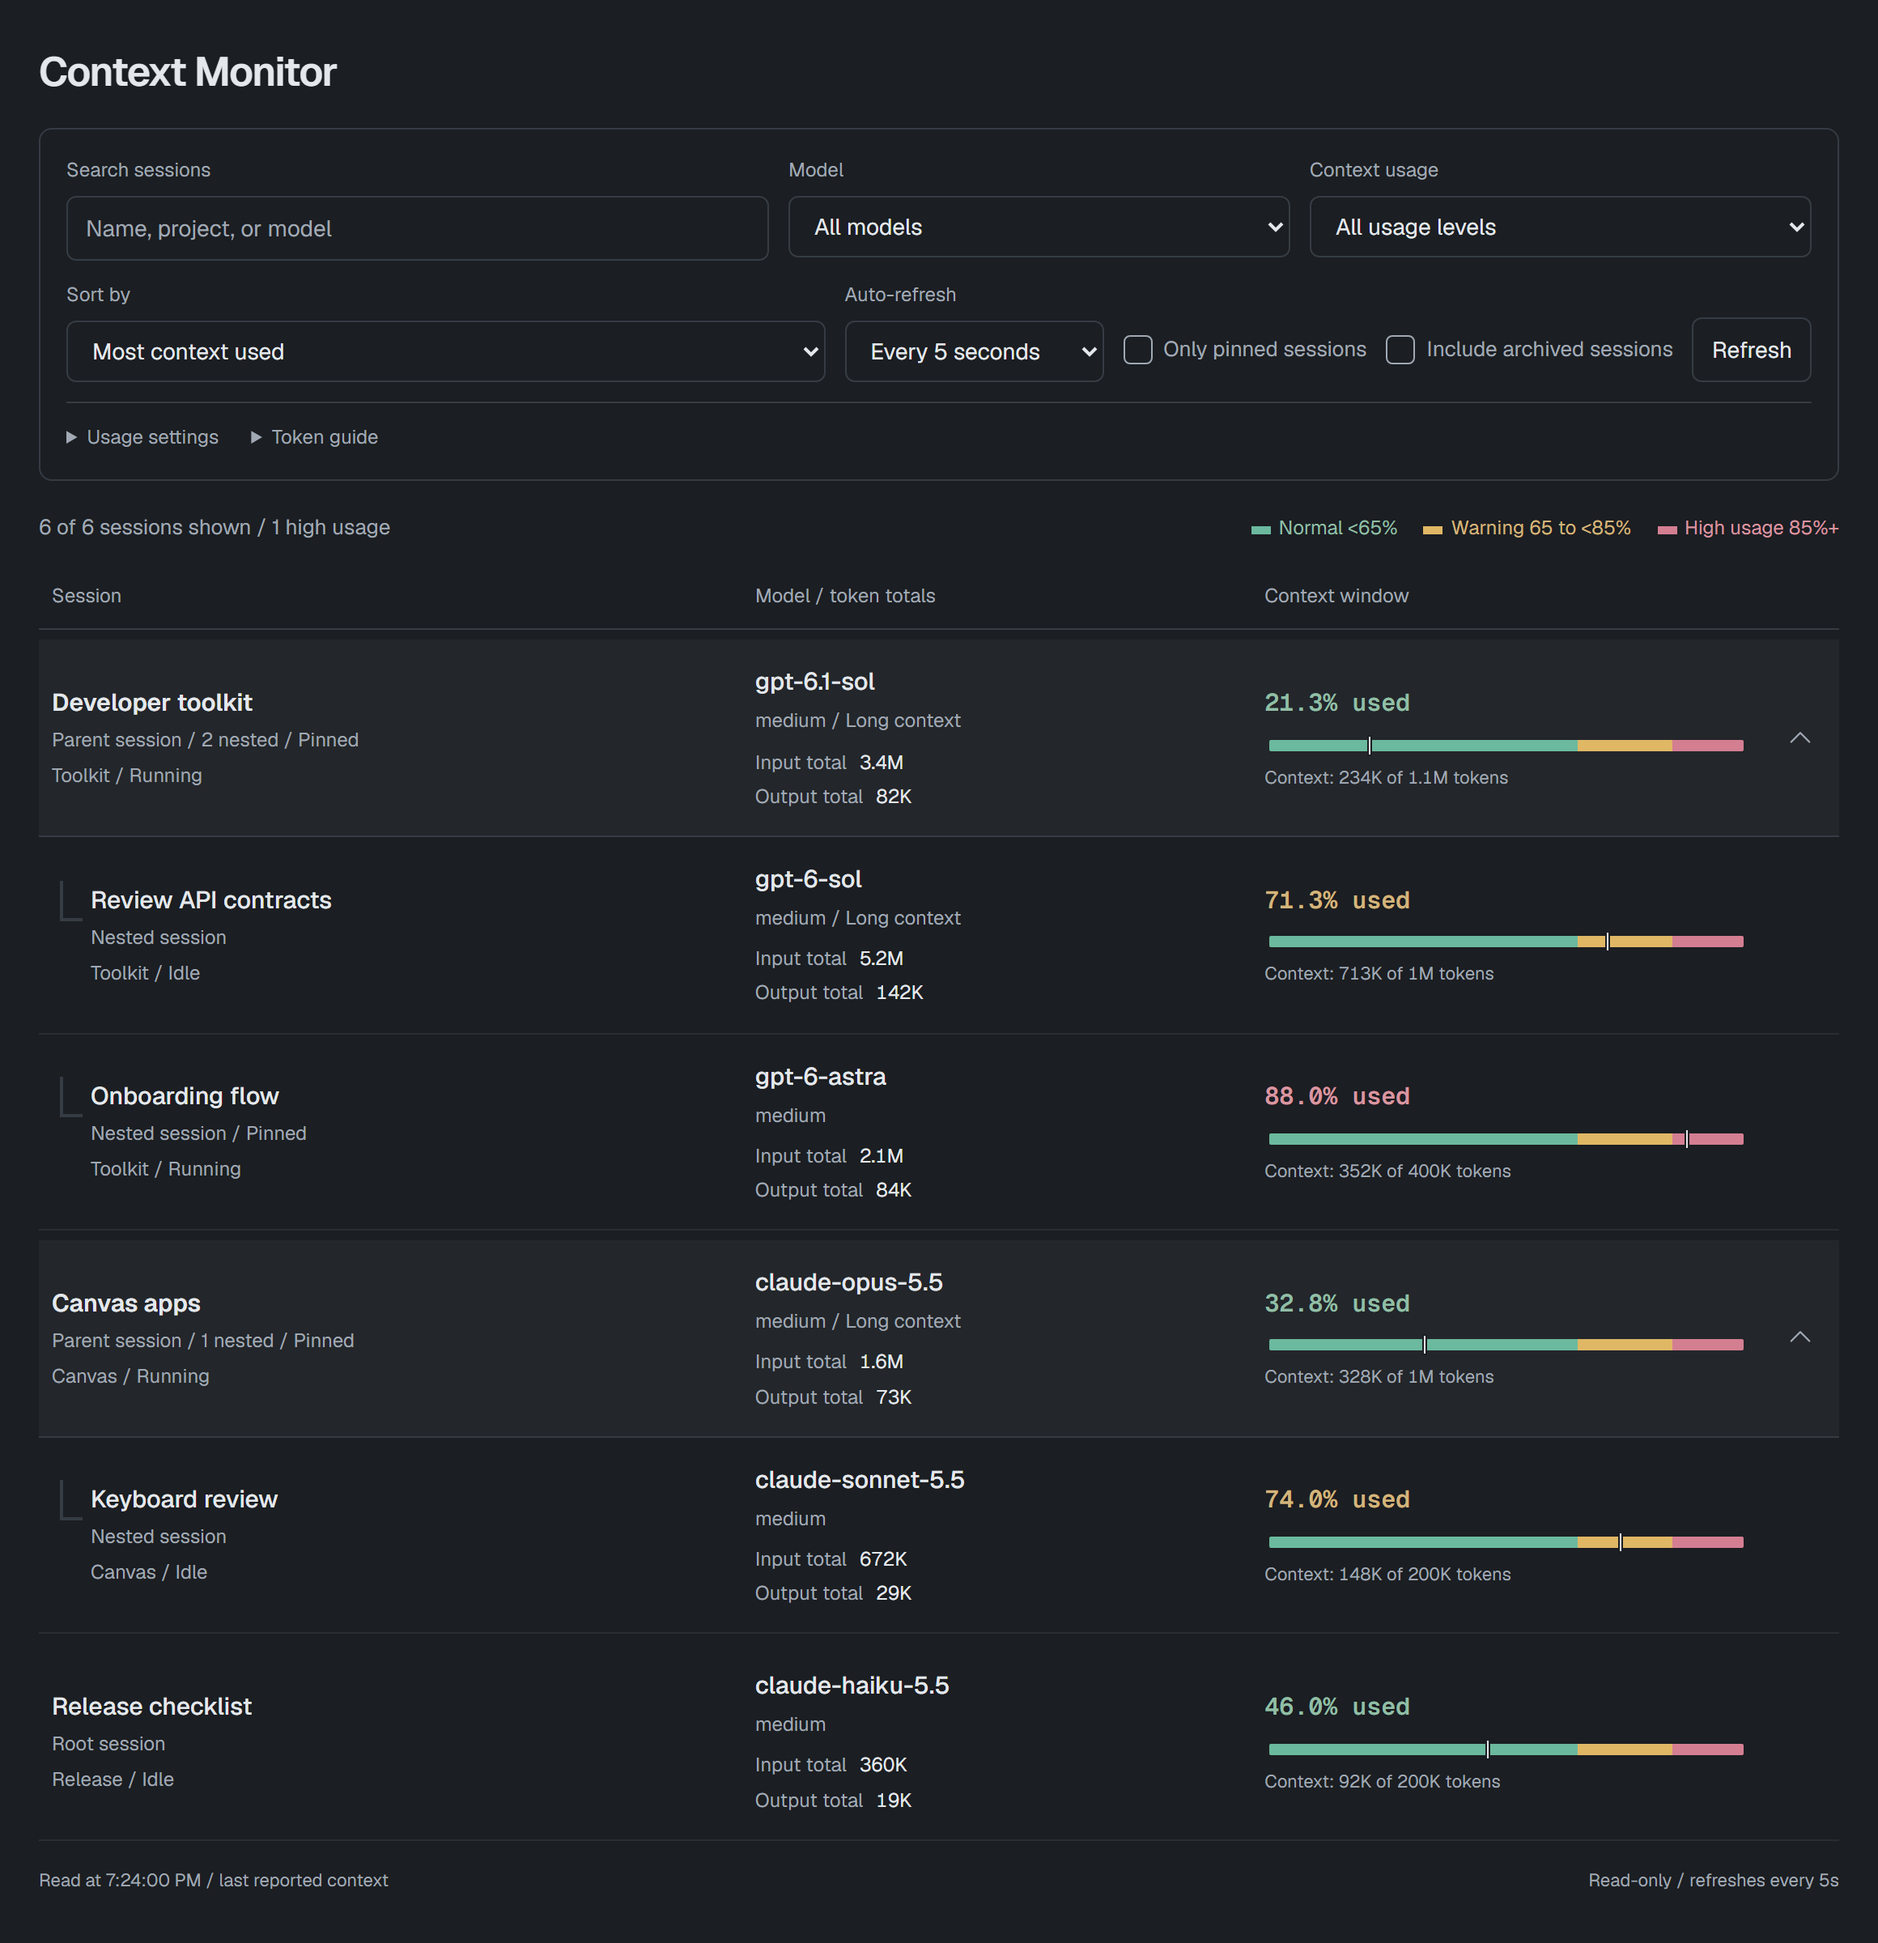
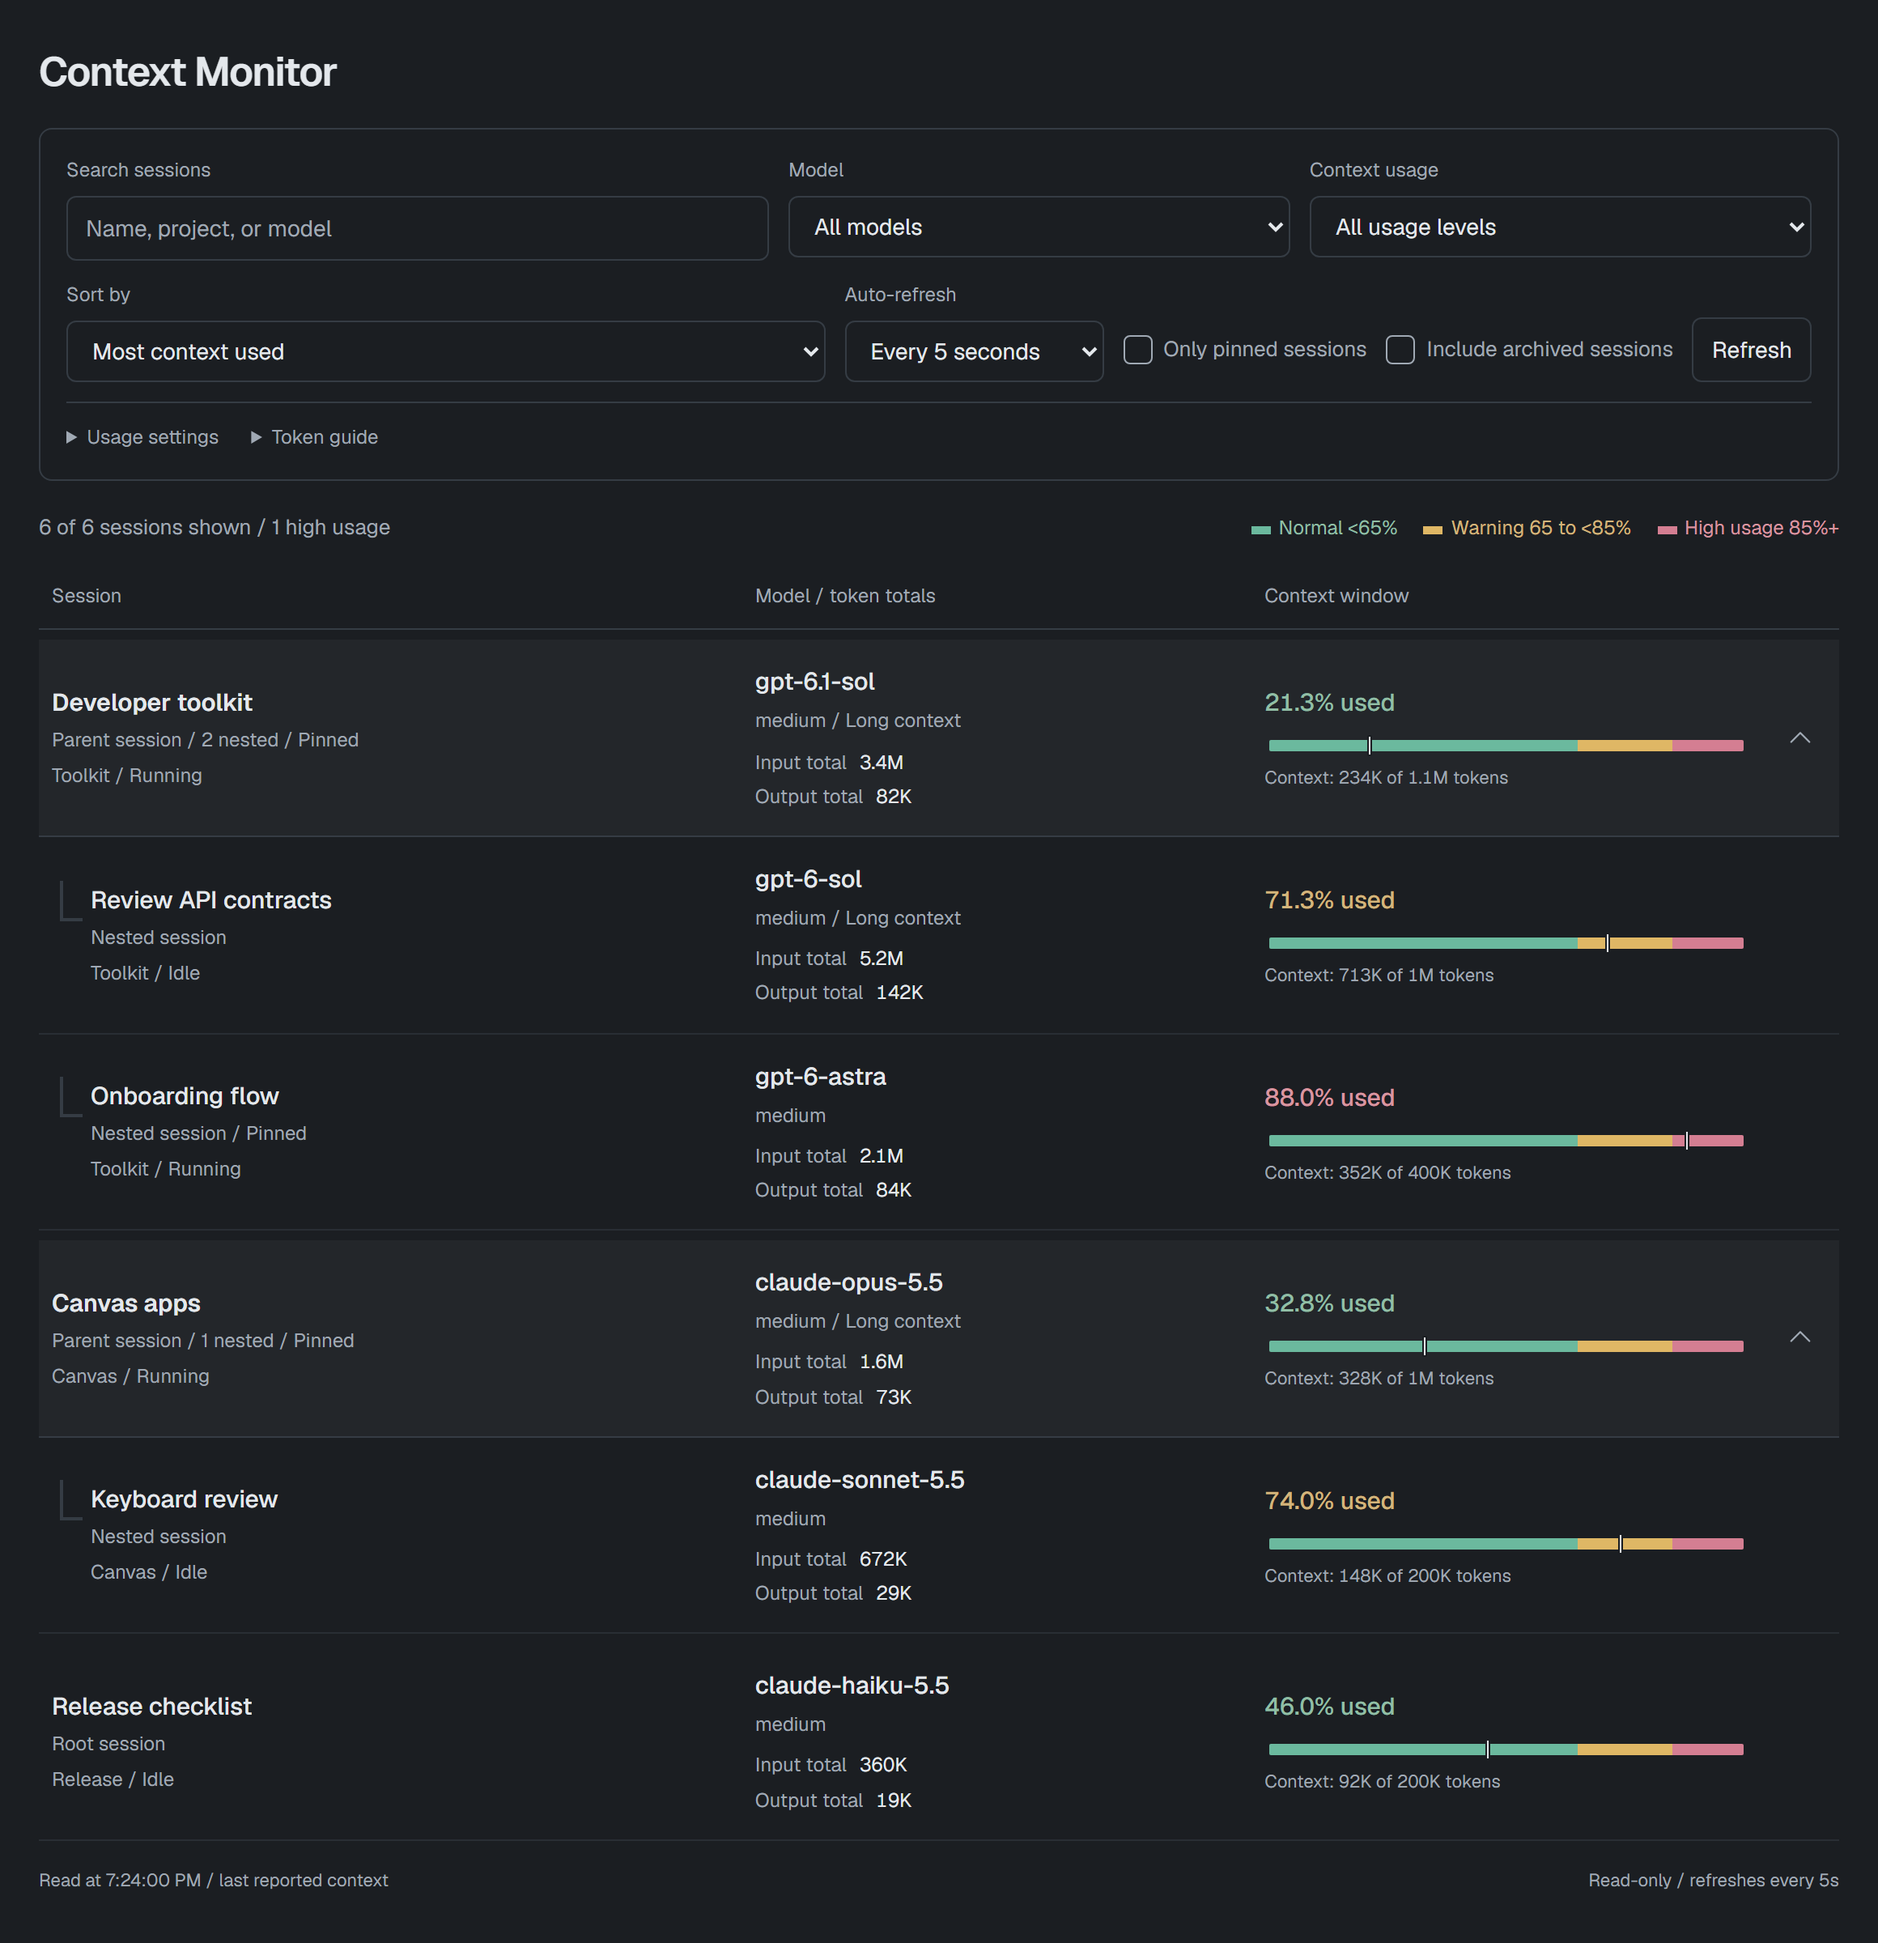
Match context usage typography to the rest of Context Monitor
Use Geist Sans for percentage labels and exact counts, retain tabular numerals and status colors, and refresh both screenshot links.

Copilot-Session: 00babc8b-3aa2-4873-a4ea-72e82f7c85ed

diff --git a/apps/context-monitor/style.css b/apps/context-monitor/style.css
@@ -5,17 +5,9 @@
     font-weight: 100 900;
     font-display: swap;
 }
-@font-face {
-    font-family: "Geist Mono";
-    src: url("/fonts/GeistMono-Variable.woff2") format("woff2");
-    font-style: normal;
-    font-weight: 100 900;
-    font-display: swap;
-}
 :root {
     color-scheme: light dark;
     --monitor-sans: "Geist", -apple-system, BlinkMacSystemFont, "Segoe UI", sans-serif;
-    --monitor-mono: "Geist Mono", Consolas, monospace;
     --surface: var(--background-color-default, #f8f9fa);
     --ink: var(--text-color-default, #24292f);
     --muted: var(--text-color-muted, #59636e);
@@ -123,8 +115,8 @@ input::placeholder { color: var(--muted); opacity: 1; }
 .token-totals dt { white-space: nowrap; }
 .token-totals dd { margin: 0; font-variant-numeric: tabular-nums; color: var(--ink); }
 .context { min-width: 0; }
-.numbers { display: flex; gap: 8px; align-items: baseline; font: 12px/1.5 var(--monitor-mono); font-variant-numeric: tabular-nums; }
-.percent { font-size: 15px; font-weight: 600; }
+.numbers { display: flex; gap: 8px; align-items: baseline; font: 15px/1.6 var(--monitor-sans); font-variant-numeric: tabular-nums; }
+.percent { font-weight: 500; }
 .tokens { color: var(--muted); white-space: nowrap; }
 .missing-usage { color: var(--muted); font: 12px/1.5 var(--monitor-sans); }
 .context-count { margin-top: 8px; color: var(--muted); font: 11px/1.5 var(--monitor-sans); }
@@ -136,7 +128,7 @@ input::placeholder { color: var(--muted); opacity: 1; }
 .details[hidden] { display: none; }
 .details dl { display: grid; grid-template-columns: repeat(3, minmax(0, 1fr)); gap: 10px 20px; margin: 5px 0 12px; }
 .details dt { color: var(--muted); font-size: 12px; }
-.details dd { margin: 2px 0 0; font: 13px/1.5 var(--monitor-mono); overflow-wrap: anywhere; }
+.details dd { margin: 2px 0 0; font: 13px/1.5 var(--monitor-sans); font-variant-numeric: tabular-nums; overflow-wrap: anywhere; }
 .metric-help { margin: 4px 0 0; color: var(--muted); font-size: 11px; }
 .sample { font-size: 12px; color: var(--muted); margin: 0; overflow-wrap: anywhere; }
 .notice { padding: 12px 0; color: var(--rose); font-size: 13px; }

diff --git a/apps/context-monitor/index.html b/apps/context-monitor/index.html
@@ -6,7 +6,6 @@
     <meta name="monitor-token" content="__TOKEN__">
     <title>Context Monitor</title>
     <link rel="preload" href="/fonts/Geist-Variable.woff2" as="font" type="font/woff2" crossorigin>
-    <link rel="preload" href="/fonts/GeistMono-Variable.woff2" as="font" type="font/woff2" crossorigin>
     <link rel="stylesheet" href="/style.css">
     <script type="module" src="/app.js"></script>
 </head>

diff --git a/apps/context-monitor/README.md b/apps/context-monitor/README.md
@@ -2,7 +2,7 @@
 
 See your GitHub Copilot app sessions, models, and context usage in one canvas.
 
-<a href="screenshot-full.png?v=5147350d9e19"><img src="screenshot.png?v=38958cebc0b1" alt="Context Monitor with sample GPT-6, GPT-6.1, and Claude sessions using different context windows" width="640"></a>
+<a href="screenshot-full.png?v=17e33e5bb36b"><img src="screenshot.png?v=c96b0b4a19b6" alt="Context Monitor with sample GPT-6, GPT-6.1, and Claude sessions using different context windows" width="640"></a>
 
 ## Use in the GitHub Copilot app
 
